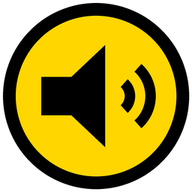
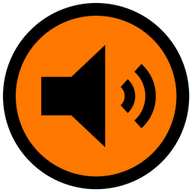
Add files via upload

diff --git a/index.html b/index.html
@@ -60,6 +60,7 @@
   #nast button { background: #000; color: #fff; border-color: #000; }
   #nast button:active { background: #fff; color: #000; }
   #nast button.zvoleno { background: #fff; color: #000; border: 6px solid #000; }
+  #nast .rada.mala { grid-template-columns: 1fr 1fr 1fr; }
   #nast .mala button { font-size: max(16px, calc(var(--pismo) - 10px)); }
 
   /* --- úvod a přetahování --- */
@@ -121,7 +122,7 @@
   <div class="popis">Seznam dokumentů řadit:</div>
   <div class="rada"><button id="n_abeceda">ABECEDNĚ</button><button id="n_nejnovejsi">NEJNOVĚJŠÍ NAHOŘE</button></div>
   <div id="n_slozky" class="popis">Pro pomocníka:</div>
-  <div class="rada mala"><button id="n_pridej_slozku">📁&nbsp; PŘIDAT SLOŽKU</button><button id="n_pridej_soubor">📄&nbsp; PŘIDAT DOKUMENT</button></div>
+  <div class="rada mala"><button id="n_pridej_slozku">📁&nbsp; PŘIDAT SLOŽKU</button><button id="n_pridej_soubor">📄&nbsp; PŘIDAT DOKUMENT</button><button id="n_vymaz">🗑&nbsp; VYMAZAT PAMĚŤ</button></div>
   <div class="rada jedna"><button id="n_hotovo" class="zelene">↩&nbsp; HOTOVO – ZPĚT KE ČTENÍ</button></div>
 </div>
 
@@ -382,7 +383,7 @@ let dok = null, odstavce = [], soubor = null;      // soubor = { handle, cesta:[
 let o = 0, v = 0, cte = false, gen = 0;
 let ohlasitStranu = false, ohlasitNazev = false, ohlasitZmenu = false;
 let casOrientace = 0, casStop = 0, skokStrana = null, varovani = "";
-let skok = nast.skok || "odstavec", razeni = nast.razeni || "abeceda";
+let skok = nast.skok || "strana", razeni = nast.razeni || "abeceda";
 let pismo = nast.pismo || 32;
 const tlNast = Object.assign({ dvojklik_ms: T.dvojklik, drzeni_ms: T.drzeni, krok_ms: T.krok, odskok_ms: T.odskok }, nast.tlacitko || {});
 let koreny = [];      // [{ druh: "slozka"|"soubor", handle }]
@@ -744,6 +745,7 @@ function obnovNastaveni() {
     const zvol = klic === skok || klic === razeni;
     $(id).textContent = (zvol ? "✓  " : "") + text; $(id).classList.toggle("zvoleno", zvol);
   }
+  $("n_vymaz").innerHTML = "🗑&nbsp; VYMAZAT PAMĚŤ"; vymazCas = -1e9;
   $("n_upozorneni").style.display = skok === "strana" ? "" : "none";
   const slo = koreny.filter(k => k.druh === "slozka").length, sou = koreny.length - slo;
   $("n_slozky").textContent = `Pro pomocníka:  na ploše ${slo} slož. a ${sou} dok.  (odebrat: v seznamu klávesa Delete)`;
@@ -892,6 +894,17 @@ klik("n_odstavec", () => nastavSkok("odstavec")); klik("n_strana", () => nastavS
 klik("n_abeceda", () => nastavRazeni("abeceda")); klik("n_nejnovejsi", () => nastavRazeni("nejnovejsi"));
 klik("n_pridej_slozku", pridejSlozku); klik("n_pridej_soubor", pridejSoubor);
 klik("n_hotovo", zavriNastaveni);
+let vymazCas = -1e9;
+klik("n_vymaz", async () => {        // pro pomocníka: vše zapomenout (dokumenty na disku zůstávají)
+  if (performance.now() - vymazCas > 4000) {
+    vymazCas = performance.now(); $("n_vymaz").textContent = "OPRAVDU? KLIKNĚTE ZNOVU";
+    rekni("Opravdu vymazat paměť? Klikněte znovu."); return;
+  }
+  stop();
+  try { for (const k of Object.keys(localStorage)) if (k.startsWith("cti.")) localStorage.removeItem(k); } catch (e) {}
+  await dbPis("koreny", []); await dbPis("posledni", null);
+  location.reload();
+});
 for (const b of document.querySelectorAll("button")) b.tabIndex = -1;   // mezerník ovládá čtení, ne tlačítko
 $("uvod").onclick = () => start();
 window.addEventListener("pagehide", ulozPozici);
